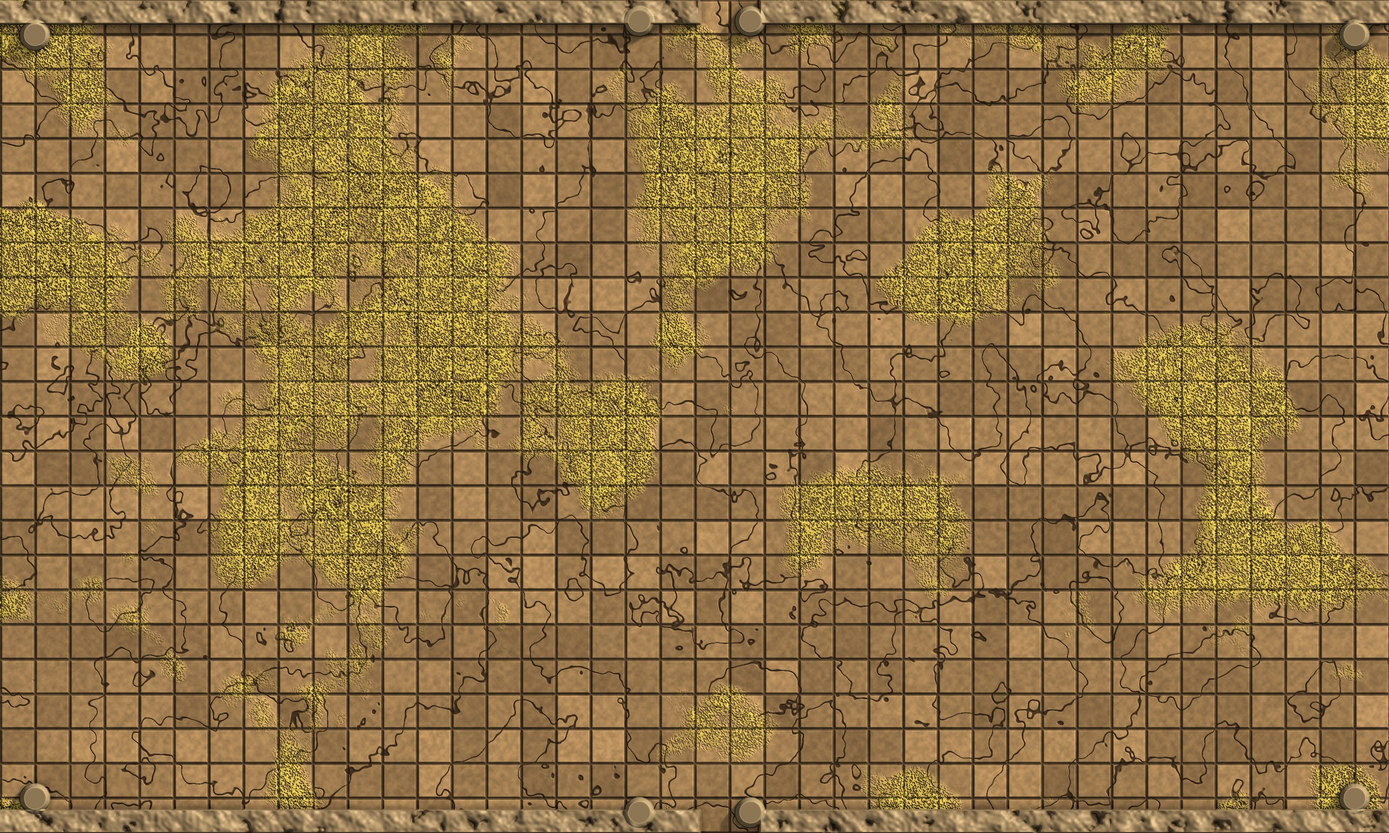
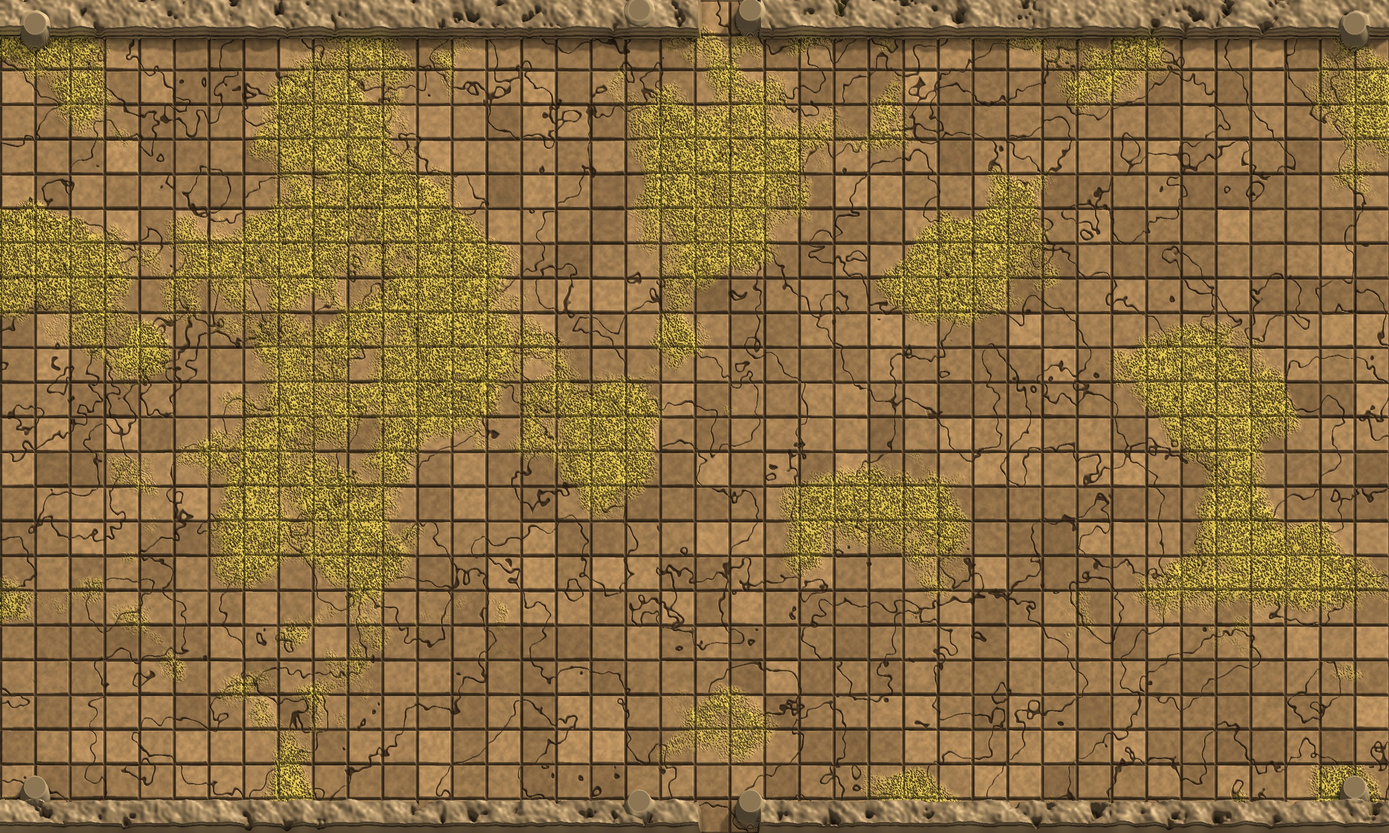
feat: render maps in the same 3D view as the sprites
- Map backgrounds, VR Training blocks, Courtyard arch overlays and the Basic map water are
  re-projected into the sprites' 55-degree oblique view: raised parts lift up the screen and
  their front faces show
- North edge walls are deepened so their tops stay on the map; the south Courtyard arch
  overlays grow to cover their lifted tops
- Basic map gate pillars stay inside the unbuildable border column so towers in the next
  column no longer cover them

Changed region(s): [[0.0, 0.0, 1.0, 1.0], [0.9011, 0.2476, 1.0, 0.3405], [0.9321, 0.8048, 1.0, 0.8357]]

diff --git a/src/engine/maps.ts b/src/engine/maps.ts
@@ -198,11 +198,12 @@ const STATIC_MAPS: Record<Exclude<MapType, MapType.VrTraining>, StaticMap> = {
     obstacles: [67371521, 235143681, 67568129, 235340289],
     image: 'courtyard_level',
     scoreMultiplier: 160,
+    // Archway lintels; the south ones reach 20px above their footprint (lifted by the 3D view).
     overlays: [
       { sprite: 'courtyard_ne_overlay', x: GRID * 15 + 1, y: 0 },
       { sprite: 'courtyard_nw_overlay', x: Math.trunc((GRID * 9) / 2) + 1, y: 0 },
-      { sprite: 'courtyard_sw_overlay', x: Math.trunc((GRID * 17) / 4) + 3, y: GRID * 11 + 3 },
-      { sprite: 'courtyard_se_overlay', x: GRID * 15 + 2, y: GRID * 11 + 3 },
+      { sprite: 'courtyard_sw_overlay', x: Math.trunc((GRID * 17) / 4) + 3, y: GRID * 11 - 17 },
+      { sprite: 'courtyard_se_overlay', x: GRID * 15 + 2, y: GRID * 11 - 17 },
     ],
   },
   [MapType.Roadway]: {

diff --git a/src/engine/data/sprites.ts b/src/engine/data/sprites.ts
@@ -102,8 +102,8 @@ export const SPRITES = {
   water_side: strip(56, 290, 12),
   courtyard_ne_overlay: strip(32, 63, 1),
   courtyard_nw_overlay: strip(32, 63, 1),
-  courtyard_se_overlay: strip(45, 65, 1),
-  courtyard_sw_overlay: strip(45, 65, 1),
+  courtyard_se_overlay: strip(45, 85, 1),
+  courtyard_sw_overlay: strip(45, 85, 1),
   mixer_1x1: squares(70, 1),
   mixer_1x2: strip(70, 140, 1),
   mixer_2x1: strip(140, 70, 1),

diff --git a/tools/sprites/levels.py b/tools/sprites/levels.py
@@ -21,6 +21,8 @@ PPU = 2
 T = 70 * PPU                 # tile size in output pixels
 LIGHT = np.array([0.6, 0.5, 0.62])   # image space: +x right, +y up (north), +z out of the ground
 LIGHT = LIGHT / np.linalg.norm(LIGHT)
+# Screen lift per unit of height, matching the 55-degree camera the sprites are rendered with.
+OBLIQUE = math.cos(math.radians(55))
 
 
 # ---- Noise ----------------------------------------------------------------------------------
@@ -83,6 +85,7 @@ class Canvas:
         self.S = np.zeros((self.h, self.w), np.float32)
         self.E = np.zeros((self.h, self.w, 3), np.float32)
         self.y, self.x = np.mgrid[0:self.h, 0:self.w].astype(np.float32)
+        self.ground = 0.0       # height of the playing surface (unlifted in the oblique view)
 
     def paint(self, mask, albedo=None, height=None, spec=None, emit=None, mode='set'):
         """Writes the given layers where `mask` (0..1) is set; `mode='add'` adds to the height."""
@@ -160,6 +163,48 @@ class Canvas:
         if self.E.max() > 0:
             rgb += blur(self.E, 10) * 0.6
         return (np.clip(rgb, 0, 1) ** (1 / 1.1) * 255).round().astype(np.uint8)
+
+
+    def project(self, rgb, ground=0.0):
+        """Re-draws a shaded top-down image in the sprites' oblique view: heights above `ground`
+        lift surfaces up the screen and the south-facing sides that rise become visible."""
+        rel = (self.H - ground) * OBLIQUE
+        h, w = rel.shape
+        best = np.full((h, w), np.iinfo(np.int32).min, np.int32)
+        for k in range(int(math.floor(min(rel.min(), 0))), int(math.ceil(max(rel.max(), 0))) + 1):
+            # Source row Y + k reaches screen row Y when its lifted top is at or above Y.
+            src = np.full((h, w), -np.inf, np.float32)
+            lo, hi = max(0, -k), min(h, h - k)
+            if lo < hi:
+                src[lo:hi] = rel[lo + k:hi + k]
+            best = np.where(src >= k, k, best)
+        rows = np.arange(h)[:, None]
+        best = np.where(best == np.iinfo(np.int32).min, 0, best)
+        sy = rows + best
+        sx = np.broadcast_to(np.arange(w)[None, :], (h, w))
+        self.src = (sy, sx)
+        out = rgb[sy, sx].astype(np.float32)
+        below = rel[sy, sx] - best                 # px down from the top edge of that surface
+        # Small gaps come from slopes (stretch the surface over them); big ones are walls.
+        face = np.clip((below - 2.5) / 2.0, 0, 1)[..., None]
+        lit = 0.62 - 0.22 * np.clip(below / 60, 0, 1)
+        # Sides take the surface's average colour so bevels and trim don't streak down them.
+        side = blur(self.A, 8)[sy, sx] * lit[..., None] * 255
+        side = (np.clip(side / 255, 0, 1) ** (1 / 1.1)) * 255
+        out = out * (1 - face) + side * face
+        return out.round().clip(0, 255).astype(np.uint8)
+
+    def remap(self, a):
+        """Moves a per-pixel map (mask or overlay) into the view made by the last `project`."""
+        return a[self.src]
+
+    def render(self):
+        return self.project(self.shade(), self.ground)
+
+
+def north_lift(height):
+    """Extra depth for a wall on the north edge so its top is not lifted off the map."""
+    return round(height * OBLIQUE)
 
 
 def tile_center(tx, ty):
@@ -285,9 +330,12 @@ def basic_level():
     c.H = c.H * (1 - water) + (-8 + ripple * 1.5) * water
     c.paint(water, albedo=mix((0.08, 0.24, 0.36), (0.03, 0.11, 0.21), depth), spec=0.9)
 
-    # East bulkhead wall with blue lights, open at the exit (row 6).
+    # East bulkhead wall with blue lights, open at the exit (row 6). Everything stays inside the
+    # unbuildable border column; pieces south of the opening start lower so that, once their tops
+    # are lifted by the oblique view, the opening still lines up with row 6.
     wx = EAST_WALL_X * PPU
-    gap = (c.y > 6 * T + 6) & (c.y < 7 * T - 6)
+    border = 19 * T
+    gap = (c.y > 6 * T + 6) & (c.y < 7 * T - 6 + round(72 * OBLIQUE))
     wall_m, wall_in = c.rect(wx, -10, c.w + 10, c.h + 10, 2)
     c.block((wall_m * ~gap, wall_in), 64, 10, (0.36, 0.38, 0.43), 0.6)
     for k in range(12):
@@ -330,14 +378,14 @@ def basic_level():
     track = (np.mod(c.x - wx, 22) < 4) * tunnel
     c.paint(track * (1 - fade) * 0.6, albedo=(0.08, 0.08, 0.1))
     for sgn, yy in ((-1, gy0), (1, gy1)):
-        cy = yy + sgn * 40
-        tower = c.rrect(wx - 56, cy - 38, c.w + 10, cy + 38, 12)
+        cy = yy + sgn * 40 + (round(100 * OBLIQUE) if sgn > 0 else 0)
+        tower = c.rrect(border + 2, cy - 38, c.w + 10, cy + 38, 12)
         c.block(tower, 92, 8, (0.42, 0.45, 0.5), 0.7)
-        cap = c.rrect(wx - 44, cy - 26, wx + 40, cy + 26, 10)
+        cap = c.rrect(border + 10, cy - 26, wx + 40, cy + 26, 10)
         c.block(cap, 104, 5, (0.3, 0.32, 0.36), 0.6)
         vent = (np.mod(c.x - wx, 14) < 6) * c.rect(wx + 56, cy - 18, c.w - 12, cy + 18, 1)[0]
         c.paint(vent * 0.8, albedo=(0.2, 0.21, 0.24))
-        lamp = c.disc(wx - 2, cy, 11)[0]
+        lamp = c.disc(border + 24, cy, 10)[0]
         c.paint(lamp, albedo=(0, 0, 0), emit=(0.25, 0.55, 1.0))
     # Door slot in the tunnel mouth and a lit strip overhead.
     c.paint(c.rect(wx + 12, gy0 + 2, wx + 18, gy1 - 2, 1)[0], albedo=(0.55, 0.45, 0.12))
@@ -348,6 +396,7 @@ def basic_level():
         lamp = c.disc(16, yy, 6)[0]
         c.paint(lamp, albedo=(0, 0, 0), emit=(0.35, 1.0, 0.45))
     c.water_mask = water
+    c.ground = 3  # height of the playing surface
     return c
 
 
@@ -410,7 +459,7 @@ def cross_level():
     c.H += tuft * 4
     # Crumbled walls along the north and south edges, open at the gates.
     gates = gate_mask(c, [774, 262, 522, 1034], 0.6)
-    for y0, y1 in ((0, T * 0.34), (c.h - T * 0.34, c.h)):
+    for y0, y1 in ((0, T * 0.34 + north_lift(48)), (c.h - T * 0.34, c.h)):
         wall = c.rect(-10, y0, c.w + 10, y1, 3)
         rough = fbm(c.w, c.h, 30, 17, 3)
         m = wall[0] * (1 - gates) * smoothstep(0.2, 0.5, rough + 0.2)
@@ -422,6 +471,7 @@ def cross_level():
         c.block(col, 46, 8, (0.62, 0.52, 0.36), 0.15)
         ring = c.disc(tx * T, ty * T, T * 0.15, 2)
         c.paint(ring[0], albedo=(0.5, 0.41, 0.28))
+    c.ground = 5  # height of the playing surface
     return c
 
 
@@ -481,7 +531,7 @@ def threeway_level():
                 l = c.disc(tx * T + T / 2, yy, 3.5)[0]
                 c.paint(l, albedo=(0, 0, 0), emit=(0.3, 0.6, 1.0))
     # Machinery walls on the north and south edges.
-    for y0, y1 in ((0, T * 0.3), (c.h - T * 0.3, c.h)):
+    for y0, y1 in ((0, T * 0.3 + north_lift(40)), (c.h - T * 0.3, c.h)):
         wall = c.rect(-10, y0, c.w + 10, y1, 2)
         c.block(wall, 34, 6, (0.22, 0.23, 0.26), 0.5)
         for tx in range(20):
@@ -489,7 +539,7 @@ def threeway_level():
             c.block(box_, 40, 4, (0.3, 0.32, 0.36), 0.6)
             lamp = c.disc(tx * T + T / 2, (y0 + y1) / 2, 5)[0]
             c.paint(lamp, albedo=(0, 0, 0), emit=((0.3, 1.0, 0.4) if tx % 3 else (1.0, 0.3, 0.2)))
-    hz = np.maximum(c.rect(0, T * 0.3, c.w, T * 0.42, 1)[0], c.rect(0, c.h - T * 0.42, c.w, c.h - T * 0.3, 1)[0])
+    hz = np.maximum(c.rect(0, T * 0.3 + north_lift(40), c.w, T * 0.42 + north_lift(40), 1)[0], c.rect(0, c.h - T * 0.42, c.w, c.h - T * 0.3, 1)[0])
     hazard(c, hz)
     # Gate frames on the side walls.
     for code in (771, 774, 777, 259, 262, 265):
@@ -499,6 +549,7 @@ def threeway_level():
             post = c.rect(x0, yy, x0 + 22, yy + 14, 1.5)
             c.block(post, 30, 3, (0.2, 0.21, 0.24), 0.5)
         hazard(c, c.rect(x0, row * T + 18, x0 + 22, (row + 1) * T - 18, 1)[0])
+    c.ground = 3  # height of the playing surface
     return c
 
 
@@ -510,6 +561,8 @@ COURTYARD_ARCHES = [  # (sprite id, x, y, w, h) in world px, from maps.ts
     ('courtyard_sw_overlay', (70 * 17) // 4 + 3, 70 * 11 + 3, 45, 65),
     ('courtyard_se_overlay', 70 * 15 + 2, 70 * 11 + 3, 45, 65),
 ]
+COURT_NORTH = T * 0.36 + round(48 * OBLIQUE)
+ARCH_LIFT = 20   # world px the lintel tops rise in the oblique view (see maps.ts overlays)
 
 
 def courtyard_level():
@@ -543,7 +596,7 @@ def courtyard_level():
         c.block(hedge, 40, 14, palette_map(leaf, [(0, (0.06, 0.2, 0.06)), (1, (0.2, 0.45, 0.14))]), 0.05)
         c.H += hedge[0] * leaf * 5
     # Perimeter colonnade wall (north & south), gatehouses at the four gate columns.
-    for y0, y1 in ((0, T * 0.36), (c.h - T * 0.36, c.h)):
+    for y0, y1 in ((0, COURT_NORTH), (c.h - T * 0.36, c.h)):
         wall = c.rect(-10, y0, c.w + 10, y1, 2)
         c.block(wall, 38, 5, (0.5, 0.54, 0.6), 0.3)
         for tx in range(20):
@@ -553,12 +606,12 @@ def courtyard_level():
             c.paint(lamp, albedo=(0, 0, 0), emit=(1.0, 0.85, 0.5))
     # Open the gates (N4, N10, N15; S4, S10, S15) and the side gates (W6, E6).
     for col in (4, 10, 15):
-        for y0, y1 in ((0, T * 0.36), (c.h - T * 0.36, c.h)):
+        for y0, y1 in ((0, COURT_NORTH), (c.h - T * 0.36, c.h)):
             g = c.rect(col * T + 8, y0 - 2, (col + 1) * T - 8, y1 + 2, 2)[0]
             c.H = c.H * (1 - g) + 3 * g
             c.paint(g, albedo=(0.36, 0.4, 0.46))
     for x0, x1 in ((0, T * 0.36), (c.w - T * 0.36, c.w)):
-        wall = c.rect(x0, T * 0.36, x1, c.h - T * 0.36, 2)
+        wall = c.rect(x0, COURT_NORTH, x1, c.h - T * 0.36, 2)
         c.block(wall, 30, 5, (0.5, 0.54, 0.6), 0.3)
         g = c.rect(x0 - 2, 6 * T + 8, x1 + 2, 7 * T - 8, 2)[0]
         c.H = c.H * (1 - g) + 3 * g
@@ -575,6 +628,7 @@ def courtyard_level():
         c.paint(gem, albedo=(0, 0, 0), emit=(0.3, 0.7, 1.0))
         arch = np.maximum(arch, span[0])
     c.overlay_mask = arch
+    c.ground = 3  # height of the playing surface
     return c
 
 
@@ -611,6 +665,7 @@ def mixer_level():
     c.paint(m * seg, albedo=(0, 0, 0), emit=(0.7, 0.3, 1.0))
     inner = smoothstep(0.45, 0.5, frame) * (1 - smoothstep(0.5, 0.56, frame))
     c.paint(inner, emit=(0.8, 0.4, 1.0))
+    c.ground = 0  # height of the playing surface
     return c
 
 
@@ -632,6 +687,8 @@ def vr_tile(kind, tw=1, th=1, side=None):
             arrow = c.disc(c.w / 2, c.h / 2, 10)[0]
             c.paint(arrow, emit=col * 0.6)
         else:
+            lift = round(30 * OBLIQUE)
+            c.y = 8 + (c.y - 8 - lift) * (c.h - 16) / (c.h - 16 - lift)
             outer = c.rrect(8, 8, c.w - 8, c.h - 8, 6)
             c.block(outer, 30, 18, col * 0.18, 0.9)
             face = c.rrect(26, 26, c.w - 26, c.h - 26, 4)[0]
@@ -718,6 +775,7 @@ def roadway_level():
     # Gate markers north and south (column 4).
     for y0 in (0, c.h - 16):
         hazard(c, c.rect(4 * T + 6, y0, 5 * T - 6, y0 + 16, 1)[0], 16)
+    c.ground = 23  # height of the playing surface
     return c
 
 
@@ -770,6 +828,7 @@ def skytower_level():
         crenel = (np.mod(c.x + c.y, 46) < 23).astype(np.float32)
         top = c.rrect(x * T + 18, y * T + 18, (x + w) * T - 18, (y + h) * T - 18, 8)[0]
         c.H += top * crenel * 8
+    c.ground = 63  # height of the playing surface
     return c
 
 
@@ -795,7 +854,7 @@ class _Draw:
     def __call__(self, w, h):
         if self.kind == 'vr':
             c = vr_tile(*self.args)
-            rgb = c.shade()
+            rgb = c.render()
             return np.dstack([rgb, np.full(rgb.shape[:2], 255, np.uint8)])
         if self.kind == 'water':
             (x0, y0, x1, y1), t = self.args
@@ -817,7 +876,7 @@ def courtyard_overlay_source():
     global _COURT
     if _COURT is None:
         c = courtyard_level()
-        _COURT = (c.shade(), c.overlay_mask)
+        _COURT = (c.render(), c.remap(c.overlay_mask))
     return _COURT
 
 
@@ -829,9 +888,10 @@ def water_source():
     """All water overlay frames for the Basic map (full map size, computed once per process)."""
     global _WATER
     if _WATER is None:
-        c = Canvas(20, 12)
+        c = basic_level()
+        c.project(np.zeros((c.h, c.w, 3), np.uint8), c.ground)    # just the view mapping
         water = basic_water_mask(c)
-        _WATER = [water_frame(c, water, f / WATER_FRAMES) for f in range(WATER_FRAMES)]
+        _WATER = [c.remap(water_frame(c, water, f / WATER_FRAMES)) for f in range(WATER_FRAMES)]
     return _WATER
 
 
@@ -856,7 +916,9 @@ def sprite_sheets():
     s['water_side'] = dict(size=(sx1 - sx0, sy1 - sy0), frames=[
         dict(draw=_Draw('water', WATER_SIDE, f / WATER_FRAMES)) for f in range(WATER_FRAMES)])
     for sid, x, y, w, h in COURTYARD_ARCHES:
-        s[sid] = dict(size=(w, h), frames=[dict(draw=_Draw('court', sid, x, y, w, h))])
+        # The sprite also covers the lintel's lifted top, above its footprint.
+        top = max(0, y - ARCH_LIFT)
+        s[sid] = dict(size=(w, h + y - top), frames=[dict(draw=_Draw('court', sid, x, top, w, h + y - top))])
     return s
 
 
@@ -864,7 +926,7 @@ def main():
     ids = sys.argv[1:] or list(LEVELS)
     out = os.path.join(ROOT, 'assets', 'levels')
     for lid in ids:
-        rgb = LEVELS[lid]().shade()
+        rgb = LEVELS[lid]().render()
         Image.fromarray(rgb).save(os.path.join(out, f'{lid}.jpg'), quality=88, optimize=True, progressive=True)
         print('saved', lid, rgb.shape)
 
